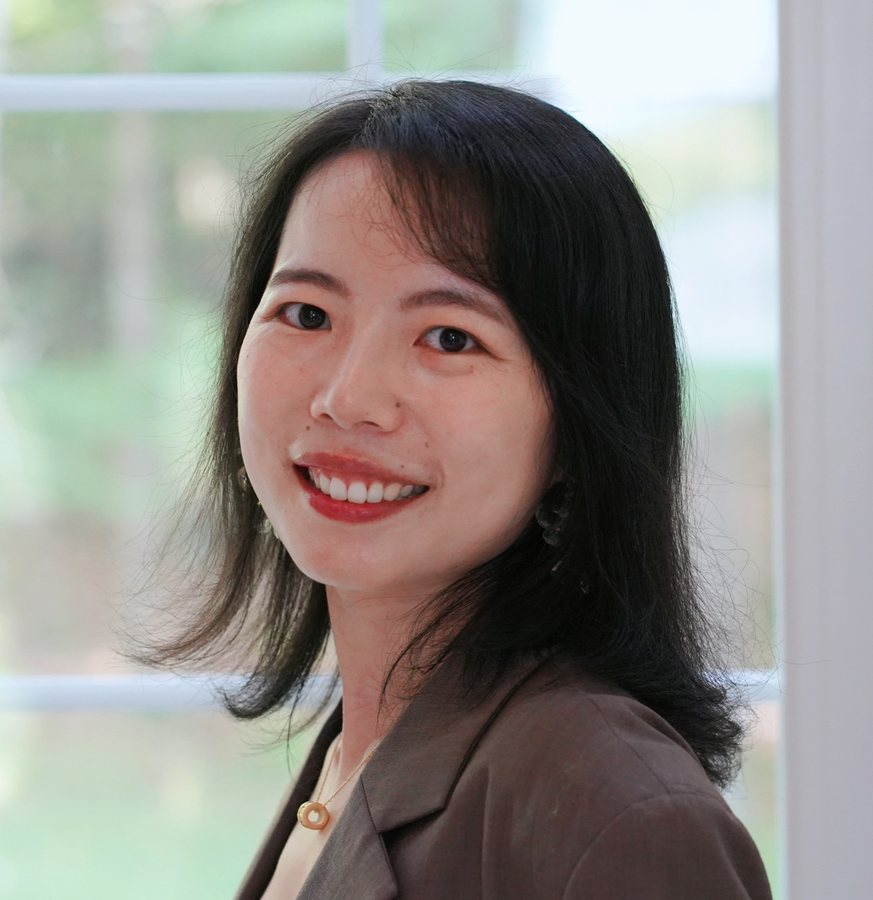
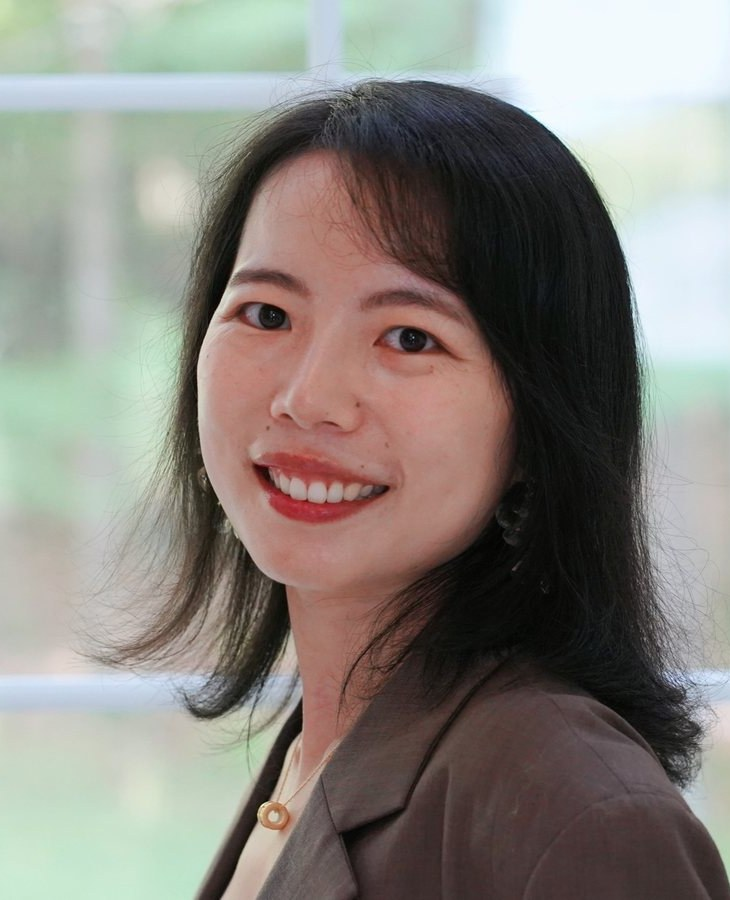
Fix stretched portrait (height attribute overrode aspect ratio), trim window frame from photo, calmer name size; accessibility fixes (landmarks, target sizes, filters at 320px)
Claude-Session: https://claude.ai/code/session_01BxkdJ8XWz7EV1MQp9U4etG

diff --git a/src/styles/site.css b/src/styles/site.css
@@ -57,11 +57,11 @@ h1, h2, h3 { margin: 0; }
 /* Hero */
 .hero { display: grid; grid-template-columns: repeat(auto-fit, minmax(min(100%, 460px), 1fr)); gap: 56px; align-items: center; padding: 40px 0 96px; }
 .hero-copy { display: flex; flex-direction: column; gap: 26px; }
-.hero h1 { font-weight: 900; font-size: clamp(60px, 8.4vw, 124px); line-height: 0.9; letter-spacing: -0.045em; }
+.hero h1 { font-weight: 800; font-size: clamp(54px, 7vw, 104px); line-height: 0.95; letter-spacing: -0.035em; }
 .hero .summary { margin: 0; max-width: 520px; font-size: 21px; line-height: 1.5; font-weight: 500; }
 .hero .roles { margin: 0; padding: 0; list-style: none; font-size: 15px; line-height: 1.65; color: var(--muted); }
 .portrait { justify-self: center; width: min(100%, 380px); border-radius: 28px; background: var(--pink-panel); padding: 36px 36px 0; }
-.portrait img { display: block; width: 100%; aspect-ratio: 4 / 5; object-fit: cover; border-radius: 999px 999px 0 0; }
+.portrait img { display: block; width: 100%; height: auto; aspect-ratio: 4 / 5; object-fit: cover; object-position: center 30%; border-radius: 999px 999px 0 0; }
 
 /* Art tiles */
 .art { display: block; width: 100%; height: auto; }
@@ -97,16 +97,18 @@ h1, h2, h3 { margin: 0; }
 .card p { margin: 0; color: var(--muted); font-size: 16px; }
 .card .note { margin-top: 18px; font-size: 15px; }
 .card a.inline, .footer-links a { border-bottom: 2px solid currentColor; }
+.card li a.inline { display: inline-block; padding: 2px 0; }
 
 /* Footer */
-.site-footer { border-radius: 28px; background: var(--oat); padding: 44px 40px; display: flex; flex-wrap: wrap; justify-content: space-between; align-items: flex-end; gap: 24px; }
+.site-footer { margin-bottom: 40px; border-radius: 28px; background: var(--oat); padding: 44px 40px; display: flex; flex-wrap: wrap; justify-content: space-between; align-items: flex-end; gap: 24px; }
 .site-footer h2 { font-size: 15px; font-weight: 600; margin-bottom: 8px; }
 .site-footer .email { font-weight: 900; font-size: clamp(28px, 4.4vw, 56px); letter-spacing: -0.03em; overflow-wrap: anywhere; }
 .site-footer .email:hover { color: var(--ink); text-decoration: underline; text-decoration-thickness: 3px; text-underline-offset: 6px; }
 .site-footer p { margin: 8px 0 0; font-size: 15px; }
+.footer-links a { display: inline-block; padding: 4px 0; }
 .footer-links { list-style: none; margin: 0; padding: 0; display: flex; flex-wrap: wrap; gap: 10px 22px; font-weight: 600; font-size: 15px; }
 .footer-links a:hover { color: var(--ink); }
-.updated { margin: 16px 0 40px; font-size: 13px; color: var(--soft); }
+.updated { flex-basis: 100%; margin: 4px 0 0; font-size: 13px; color: var(--ink); }
 
 /* Publications page */
 .page-head { padding: 40px 0 36px; }
@@ -116,6 +118,8 @@ h1, h2, h3 { margin: 0; }
 .filters label { display: flex; flex-direction: column; gap: 6px; font-size: 13px; font-weight: 600; color: var(--muted); }
 .filters input, .filters select { font: inherit; font-size: 16px; color: var(--ink); background: var(--bg); border: 1px solid #BDB6AA; border-radius: 10px; padding: 10px 12px; min-height: 44px; }
 .filters .grow { flex: 1 1 260px; }
+.filters label { flex: 1 1 200px; min-width: 0; }
+.filters select { width: 100%; }
 .filters .grow input { width: 100%; }
 .filters button { font: inherit; font-weight: 600; font-size: 15px; min-height: 44px; padding: 0 18px; border-radius: 10px; border: 2px solid var(--ink); background: transparent; color: var(--ink); cursor: pointer; }
 .filters button:hover { background: var(--ink); color: #fff; }
